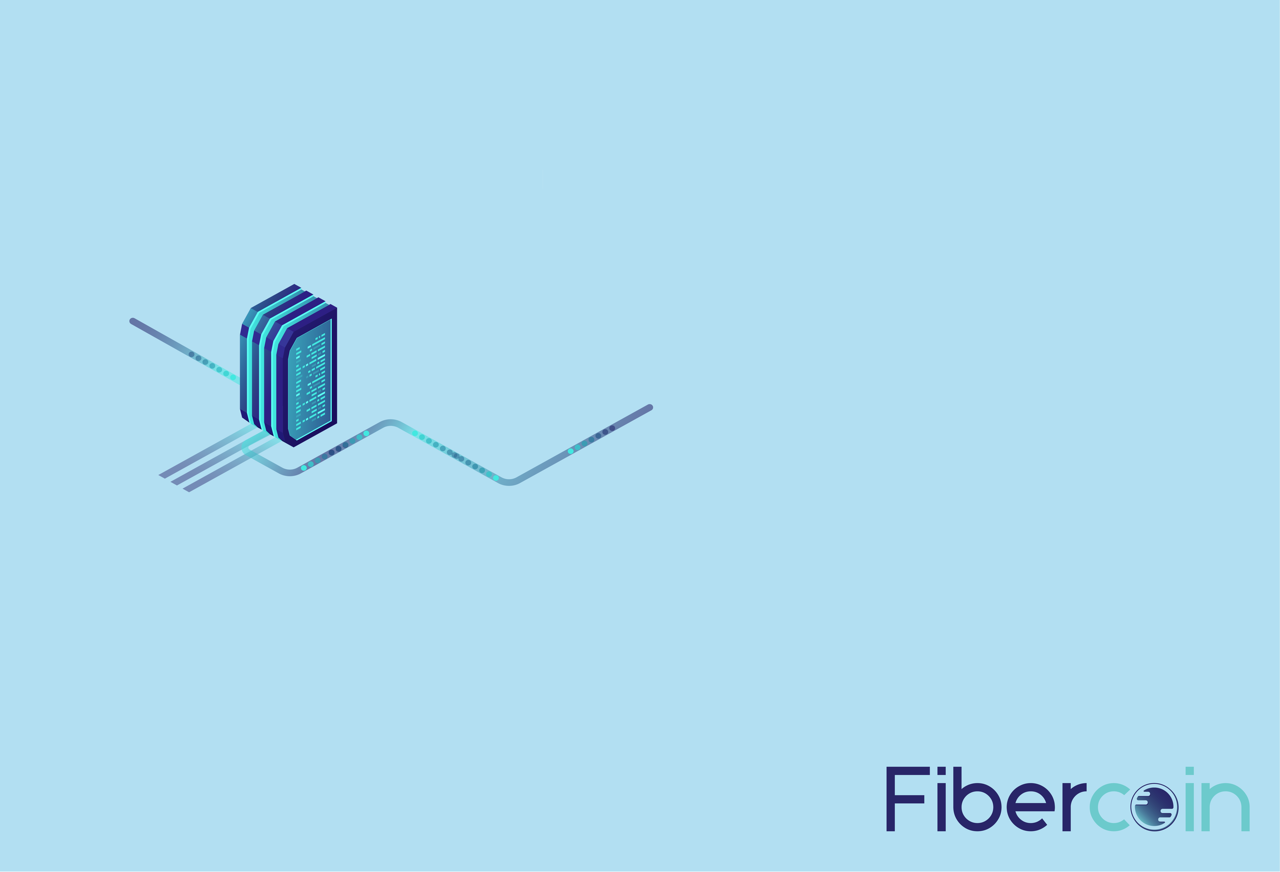
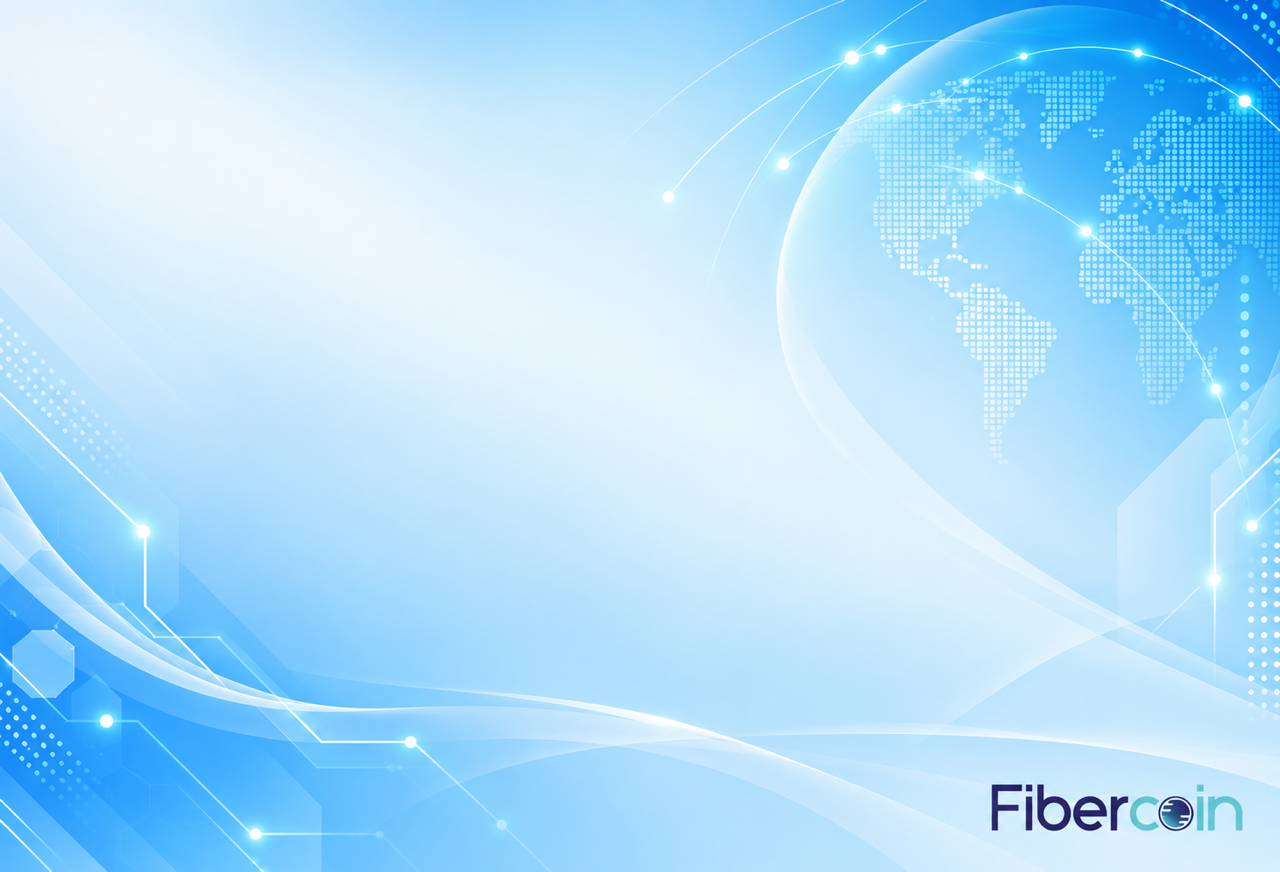
Prepare Fibercoin v2.0.2.6 release

diff --git a/src/qt/splashscreen.cpp b/src/qt/splashscreen.cpp
@@ -122,8 +122,8 @@ void SplashScreen::paintEvent(QPaintEvent* event)
 {
     Q_UNUSED(event);
 
-    const int paddingLeft = 23;
-    const int paddingTop = 580;
+    const int paddingLeft = 14;
+    const int paddingTop = 400;
     const int titleVersionVSpace = 17;
     const int titleCopyrightVSpace = 32;
 
